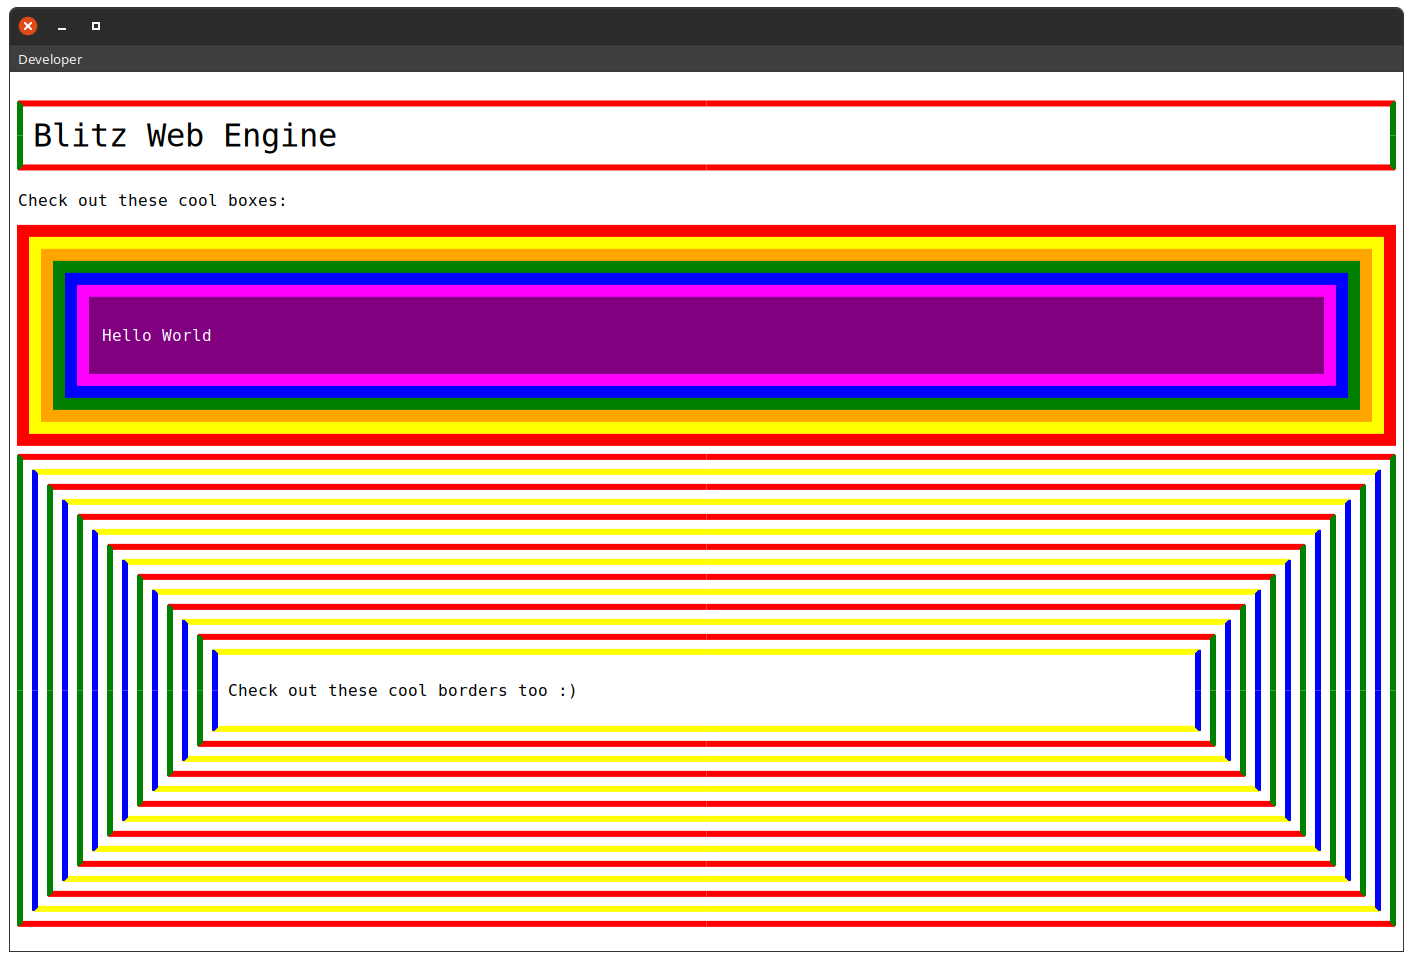
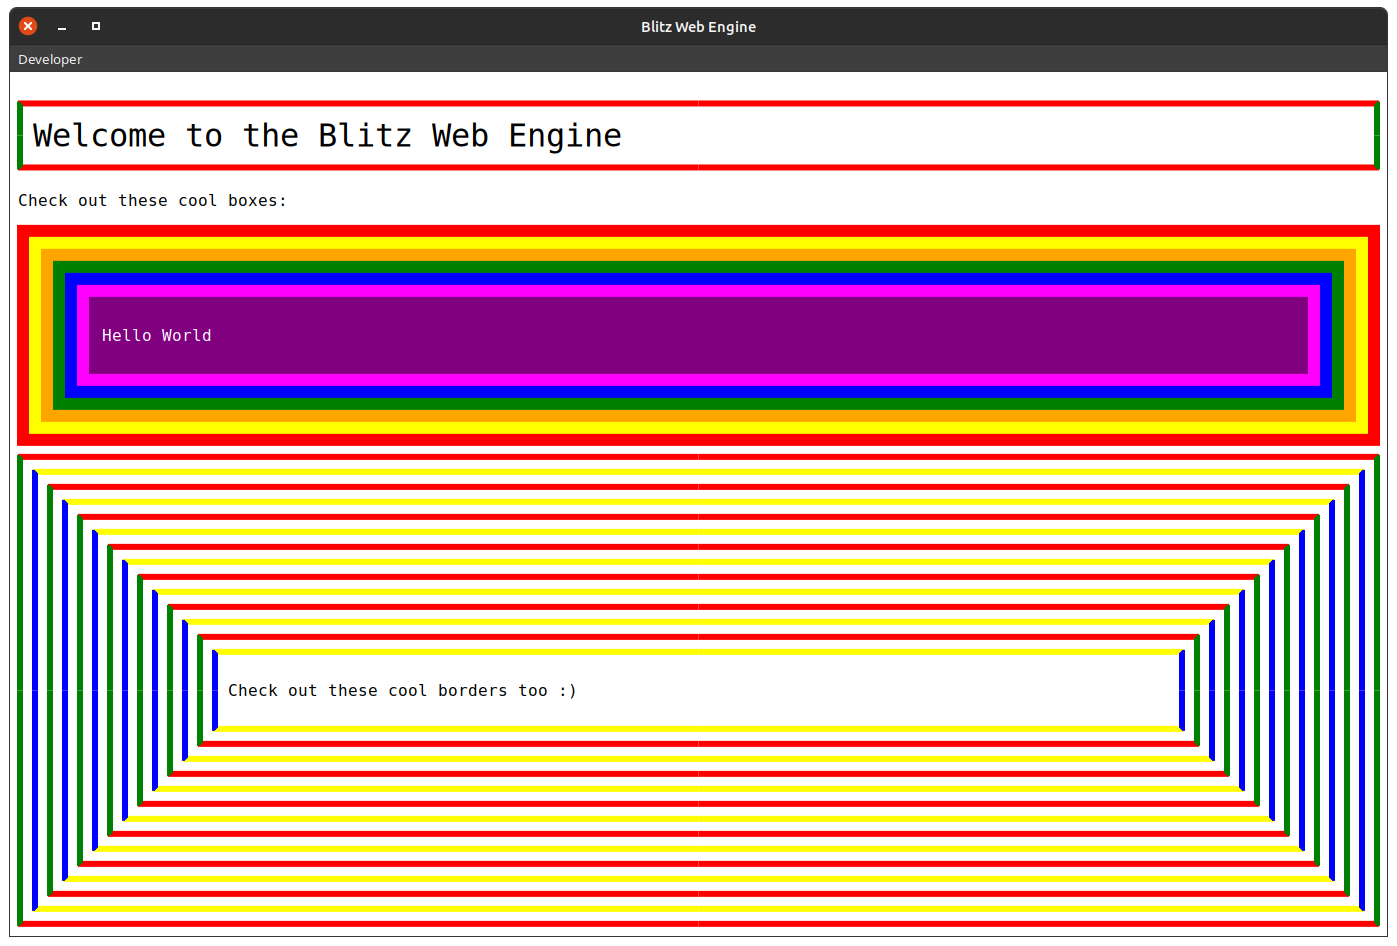
Update readme and add\update setup script
Remove old build and run file

This will get updated soon.

Add bash header

Readme: Use apt-get instead of just apt

Update readme and add html page shown in preview screenshot

Add feedback for the command that is run

Echo new message and change order of execution

Add check for the existing /obj directory

Add directories to be made in src/obj to setup file

Remove Browser/Inspector object and header file from makefile

Add directory CSS/Selectors

Fix CSS/Selectors directory name

diff --git a/res/index.html b/res/index.html
@@ -1,0 +1,61 @@
+<!-- Comment !-->
+<!-- Hello World !-->
+<!doctype html>
+<html>
+    <head>
+        <title>Blitz Web Engine</title>
+        <link rel="stylesheet" href="../res/default.css">
+    </head>
+
+    <body>
+      <h1 class="regular">Welcome to the Blitz Web Engine</h1>
+
+      <p class="orange-text">Check out these cool boxes: </p>
+
+      <div class="a" id ="color">
+        <div class="b" id ="color">
+          <div class="c" id ="color">
+            <div class="d" id ="color">
+              <div class="e" id ="color">
+                <div class="f" id ="color">
+                  <div class="g">
+                    <p class="white-text">Hello World</p>
+                  </div>
+                </div>
+              </div>
+            </div>
+          </div>
+        </div>
+      </div>
+
+      <div class="regular">
+        <div class="funky">
+          <div class="regular">
+            <div class="funky">
+              <div class="regular">
+                <div class="funky">
+                  <div class="regular">
+                    <div class="funky">
+                      <div class="regular">
+                        <div class="funky">
+                          <div class="regular">
+                            <div class="funky">
+                              <div class="regular">
+                                <div class="funky orange-background"> 
+                                  <p class="orange-text">Check out these cool borders too :)</p>
+                                </div>
+                              </div>
+                            </div>
+                          </div>
+                        </div>
+                      </div>
+                    </div>
+                  </div>
+                </div>
+              </div>
+            </div>
+          </div>  
+        </div>
+      </div>
+    </body>
+</html>

diff --git a/README.md b/README.md
@@ -2,7 +2,7 @@
 A web engine for fun that can render a sub set of the HTML and CSS as well as a very early stage JavaScript interpreter.
 
 ## About
-This is a project to build a somewhat HTML5 compatible browser and learn a ton about web rendering along the way. Everything is written from scratch and and I'm still very much learning C++. Blitz is still very much at the earlier stages of development, so plently more to come.
+This is a project to build a somewhat HTML5 compatible browser and learn a ton about web rendering along the way. Everything is written from scratch and I'm still very much learning C++. Blitz is still very much at the earlier stages of development, so plently more to come.
 
 ## Features (Broadly)
 * HTML Parsing
@@ -23,7 +23,7 @@ Currently you can only build Blitz on Ubuntu Linux (tested on 20.04). A bit limi
 ## Bash
 ### Required Depenencies
 ##### Required Library
-```sudo apt install gtkmm-3.0```
+```sudo apt-get install gtkmm-3.0```
 ##### Build Tools
 ```sudo apt-get install make```
 <br/>
@@ -36,12 +36,15 @@ Currently you can only build Blitz on Ubuntu Linux (tested on 20.04). A bit limi
 ### Build
 ```cd Blitz/src```
 <br/>
-```make```
-
-### Run 
-```sudo chmod u+x blitz.sh```
+```./setup.sh```
 <br/>
-```./blitz <HTML File Path e.g. index.html>```
+```make```
+### Run
+```./blitz <HTML File Name>```
+#### This will run the html page shown in the preview screenshot:
+```./blitz ../res/index.html```
+#### 
+
 
 Hopefully that all builds and it will launch the browser window (well more of a preview for now). 
 
